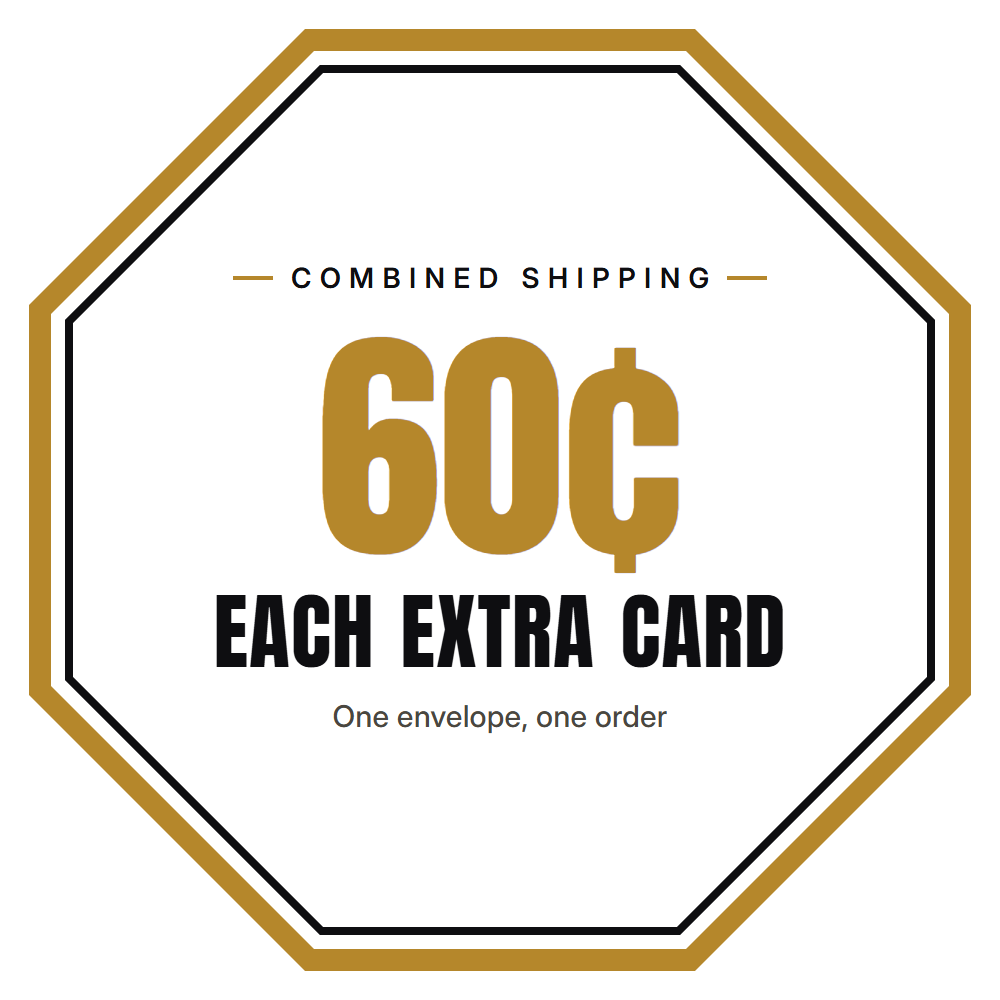
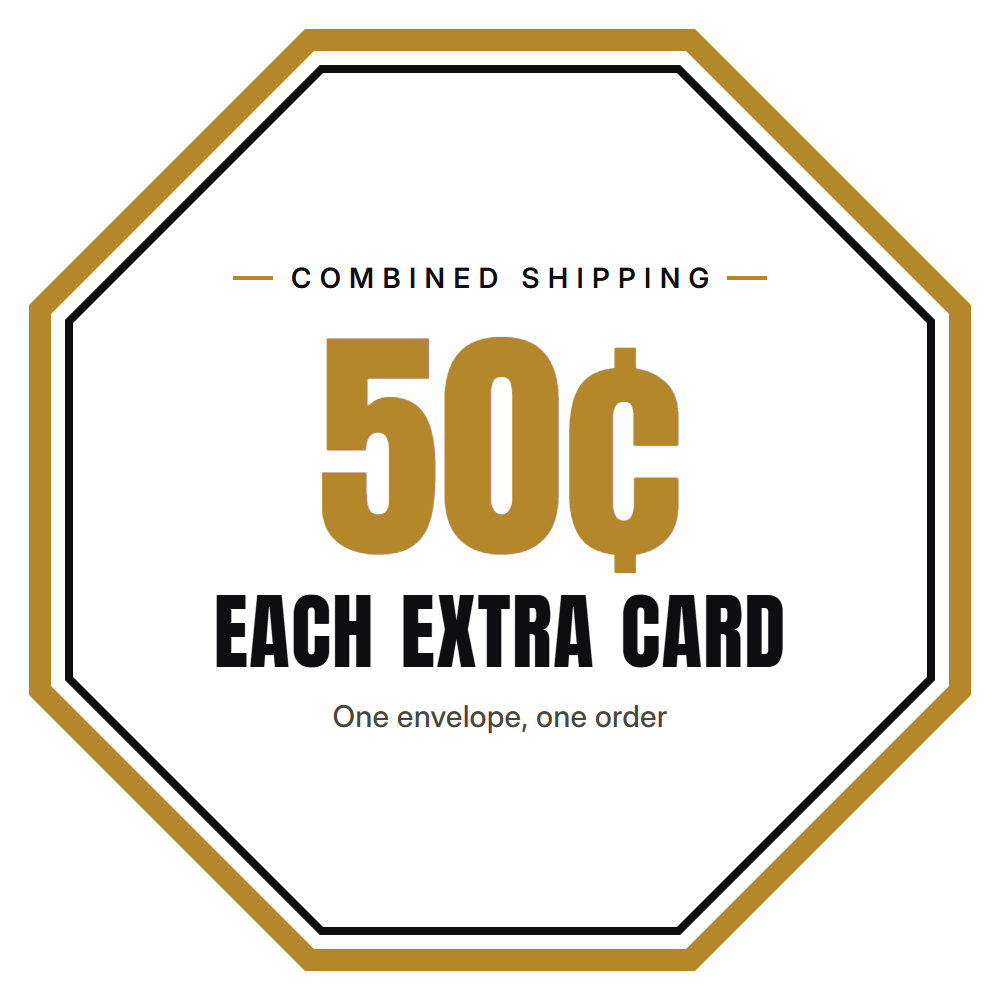
Shop: eBay store art at 50c each extra card

Changed region(s): [[0.31, 0.341, 0.434, 0.527], [0.434, 0.465, 0.465, 0.496], [0.31, 0.341, 0.341, 0.372]]

diff --git a/CHANGELOG.md b/CHANGELOG.md
@@ -50,7 +50,7 @@ Things waiting on a decision or on Juan, so they aren't lost:
   address sits behind Cloudflare Access. Never rename or delete `promo-buy-more.png`: the store's live order discounts
   point at it.
 - Same evening: the covers, discount pictures and video rendered again for the store deal as it now stands (10/15/20% off
-  2/3/4+ cards, 60¢ each extra card). The figures now come from one line in the Card Tracker (`src/store-art.js`), which
+  2/3/4+ cards, 50¢ each extra card once envelopes took 24 cards). The figures now come from one line in the Card Tracker (`src/store-art.js`), which
   warns when the deal drifts from the art.
 
 ## 2026-11-18 — A thank-you page for the envelope stickers
